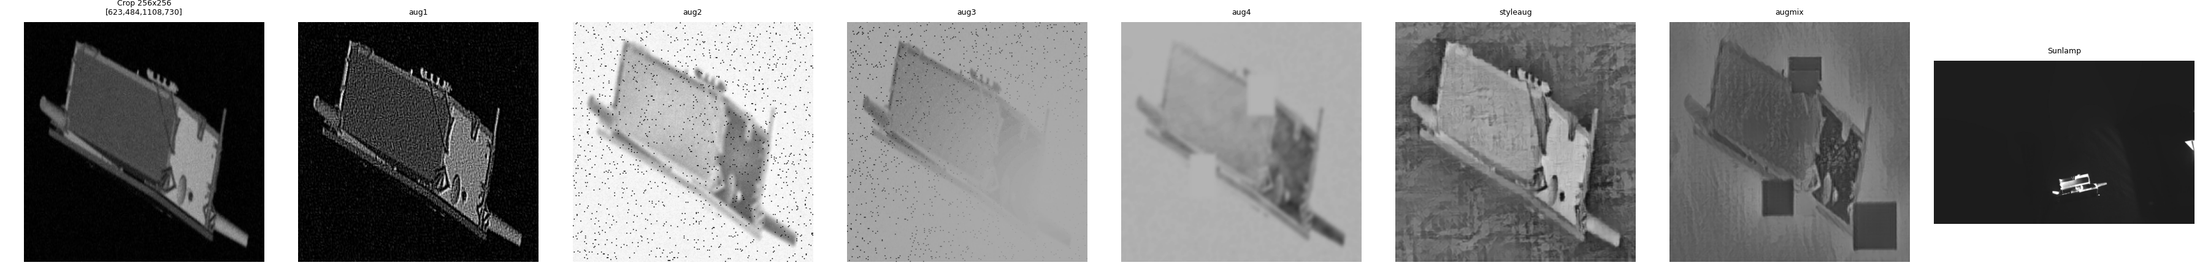
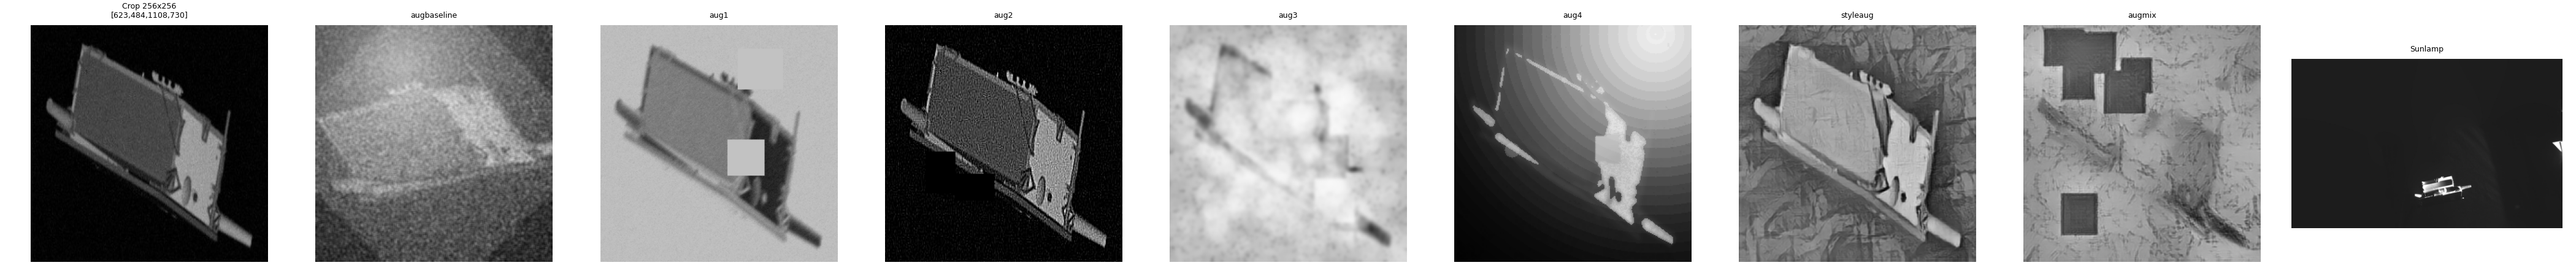
feat: add augbaseline pipeline, validation eval after training
- Add augbaseline: Brightness + ShiftScaleRotate + Noise + Blur + SunFlare
- Add validation evaluation alongside sunlamp/lightbox after training
- Update aug_visualize to include augbaseline
- Use BS=1 for validation eval loader

diff --git a/run.py b/run.py
@@ -438,6 +438,7 @@ def main():
                                   sampler=train_sampler)
         val_dataset = build_dataset(config, 'validation')
         val_loader = DataLoader(val_dataset, batch_size=config['TRAIN']['BATCH_SIZE'], shuffle=False, num_workers=8)
+        val_loader_eval = DataLoader(val_dataset, batch_size=1, shuffle=False, num_workers=1)
 
         sunlamp_dataset = build_dataset(config, 'sunlamp')
         sunlamp_loader = DataLoader(sunlamp_dataset, batch_size=1, shuffle=False, num_workers=1)
@@ -520,10 +521,17 @@ def main():
                 with open(file_path, 'w') as f:
                     json.dump(data, f)
 
+            print('testing on validation...')
+            result_dict = eval_one_epoch(model, val_loader_eval, config['MODEL']['TYPE'], criterion, Camera.K, device, bc=bc)
+            for name, data in result_dict.items():
+                file_path = f"{end_path_name}/validation_result_{name}.json"
+                with open(file_path, 'w') as f:
+                    json.dump(data, f)
+
 
     elif args.mode == 'evaluate':
         from Hyperpose_net.losses.kp_loss import KeypointRCNNLoss
-        for mode in ['lightbox', 'sunlamp']:
+        for mode in ['lightbox', 'sunlamp', 'validation']:
             dataset = build_dataset(config, mode)
             loader = DataLoader(dataset, batch_size=1, shuffle=False, num_workers=4)
             criterion = KeypointRCNNLoss(sigma=3)

diff --git a/utils_datasets/speedplus_utils_main/space_aug.py b/utils_datasets/speedplus_utils_main/space_aug.py
@@ -40,6 +40,20 @@ class SpaceAugTransform:
                              keypoint_params=A.KeypointParams(format='xy', remove_invisible=False),
                              additional_targets={'mask': 'mask', 'coors': 'mask'})
 
+        if t == 'augbaseline':
+            import cv2
+            return A.Compose([
+                A.RandomBrightnessContrast(p=1),
+                A.ShiftScaleRotate(shift_limit=0.0, scale_limit=0.0, rotate_limit=45, p=1,
+                                   border_mode=cv2.BORDER_CONSTANT, fill=0),
+                A.OneOf([A.GaussNoise()], p=0.5),
+                A.OneOf([A.MotionBlur(p=0.5), A.MedianBlur(blur_limit=3, p=0.5),
+                         A.Blur(blur_limit=3, p=0.5)], p=1),
+                A.RandomSunFlare(flare_roi=(0, 0, 1, 1), src_radius=400,
+                                 num_flare_circles_range=(1, 2), p=0.5),
+            ], keypoint_params=A.KeypointParams(format='xy', remove_invisible=False),
+                additional_targets={'mask': 'mask', 'coors': 'mask'})
+
         # Incremental aug levels
         augs = []
         base_augs = [

diff --git a/aug_test/aug_visualize.py b/aug_test/aug_visualize.py
@@ -26,8 +26,8 @@ if __name__ == '__main__':
     all_images = sorted([f for f in os.listdir(DATASET_DIR+'/synthetic/images') if f.endswith(('.jpg','.png')) and f in label_dict])
     selected = random.sample(all_images, min(10, len(all_images)))
 
-    aug_types = ['aug1', 'aug2', 'aug3', 'aug4', 'styleaug', 'augmix']
-    n_cols = 8
+    aug_types = ['augbaseline', 'aug1', 'aug2', 'aug3', 'aug4', 'styleaug', 'augmix']
+    n_cols = 9  # crop + 7 augs + sunlamp
 
     ds = PyTorchSatellitePoseEstimationDataset(
         split='train', speed_root=DATASET_DIR, points=body_points)
@@ -62,7 +62,7 @@ if __name__ == '__main__':
         cropped = full_img[y1:y2, x1:x2]
         resized = cv2.resize(cropped, (256, 256), interpolation=cv2.INTER_LINEAR)
 
-        fig, axes = plt.subplots(1, n_cols, figsize=(24, 3))
+        fig, axes = plt.subplots(1, n_cols, figsize=(28, 3))
         axes[0].imshow(resized); axes[0].set_title(f'Crop 256x256\n[{x1},{y1},{x2},{y2}]', fontsize=6); axes[0].axis('off')
 
         for j, at in enumerate(aug_types):
